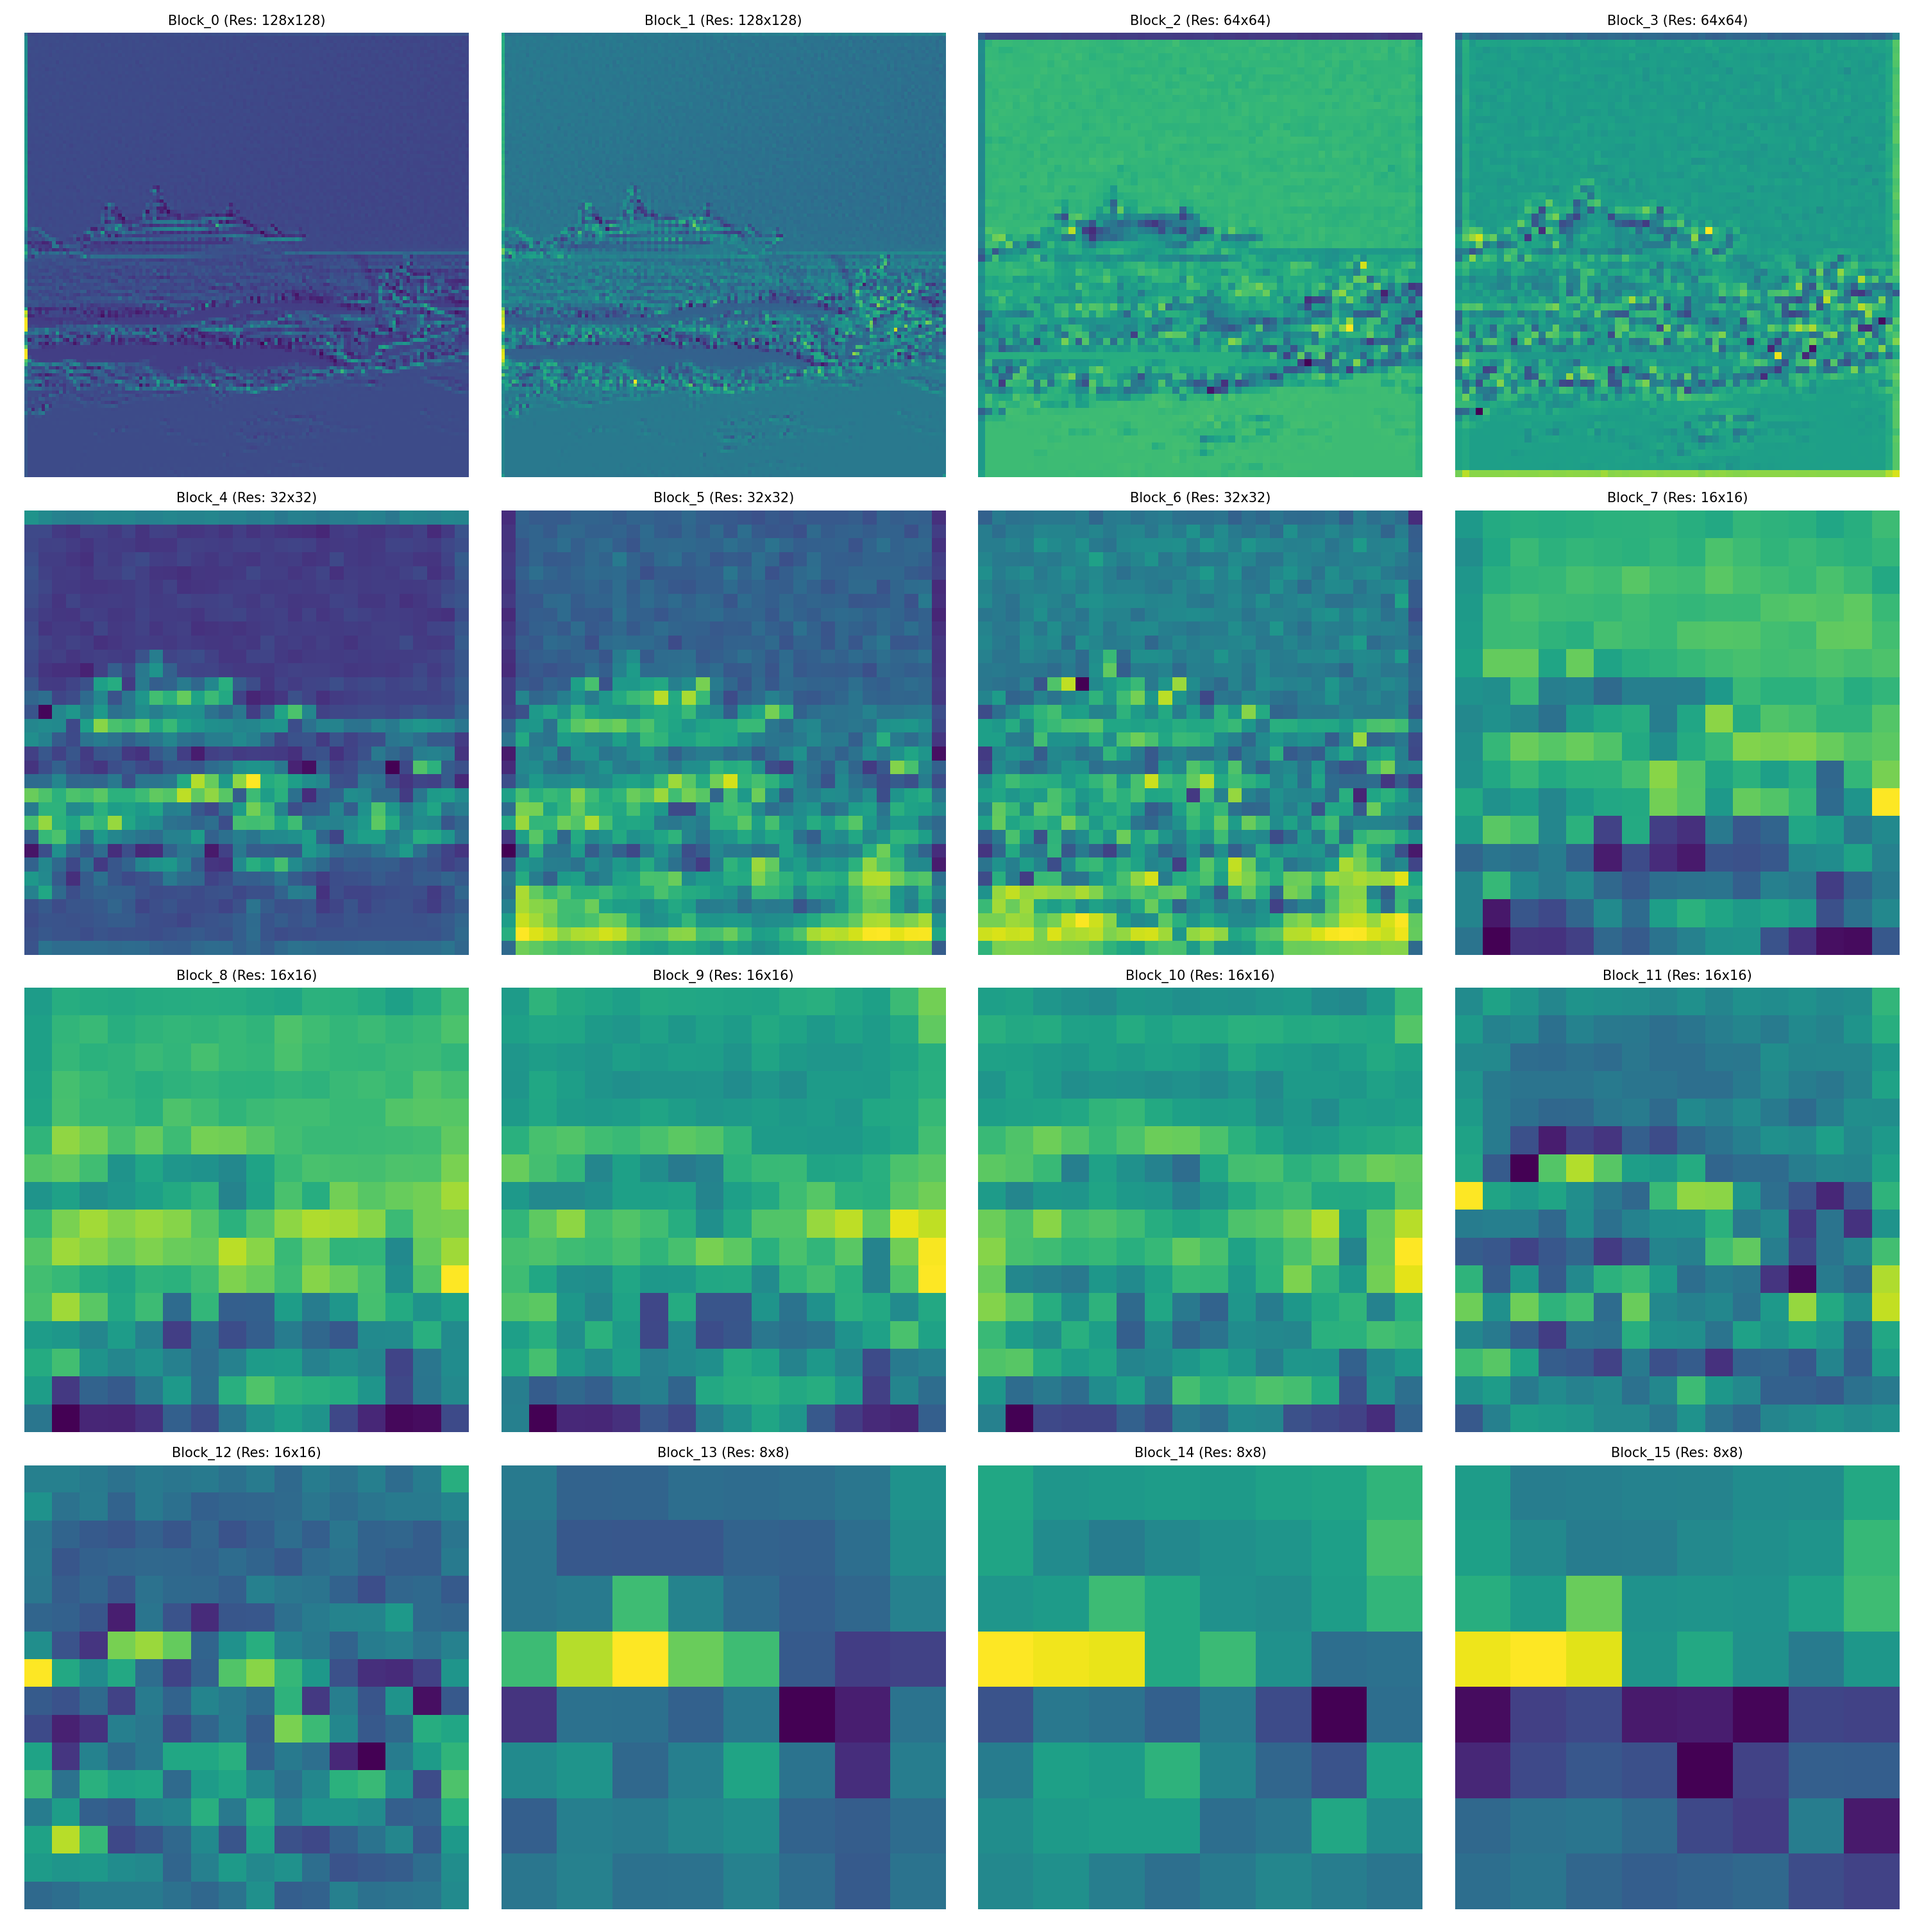
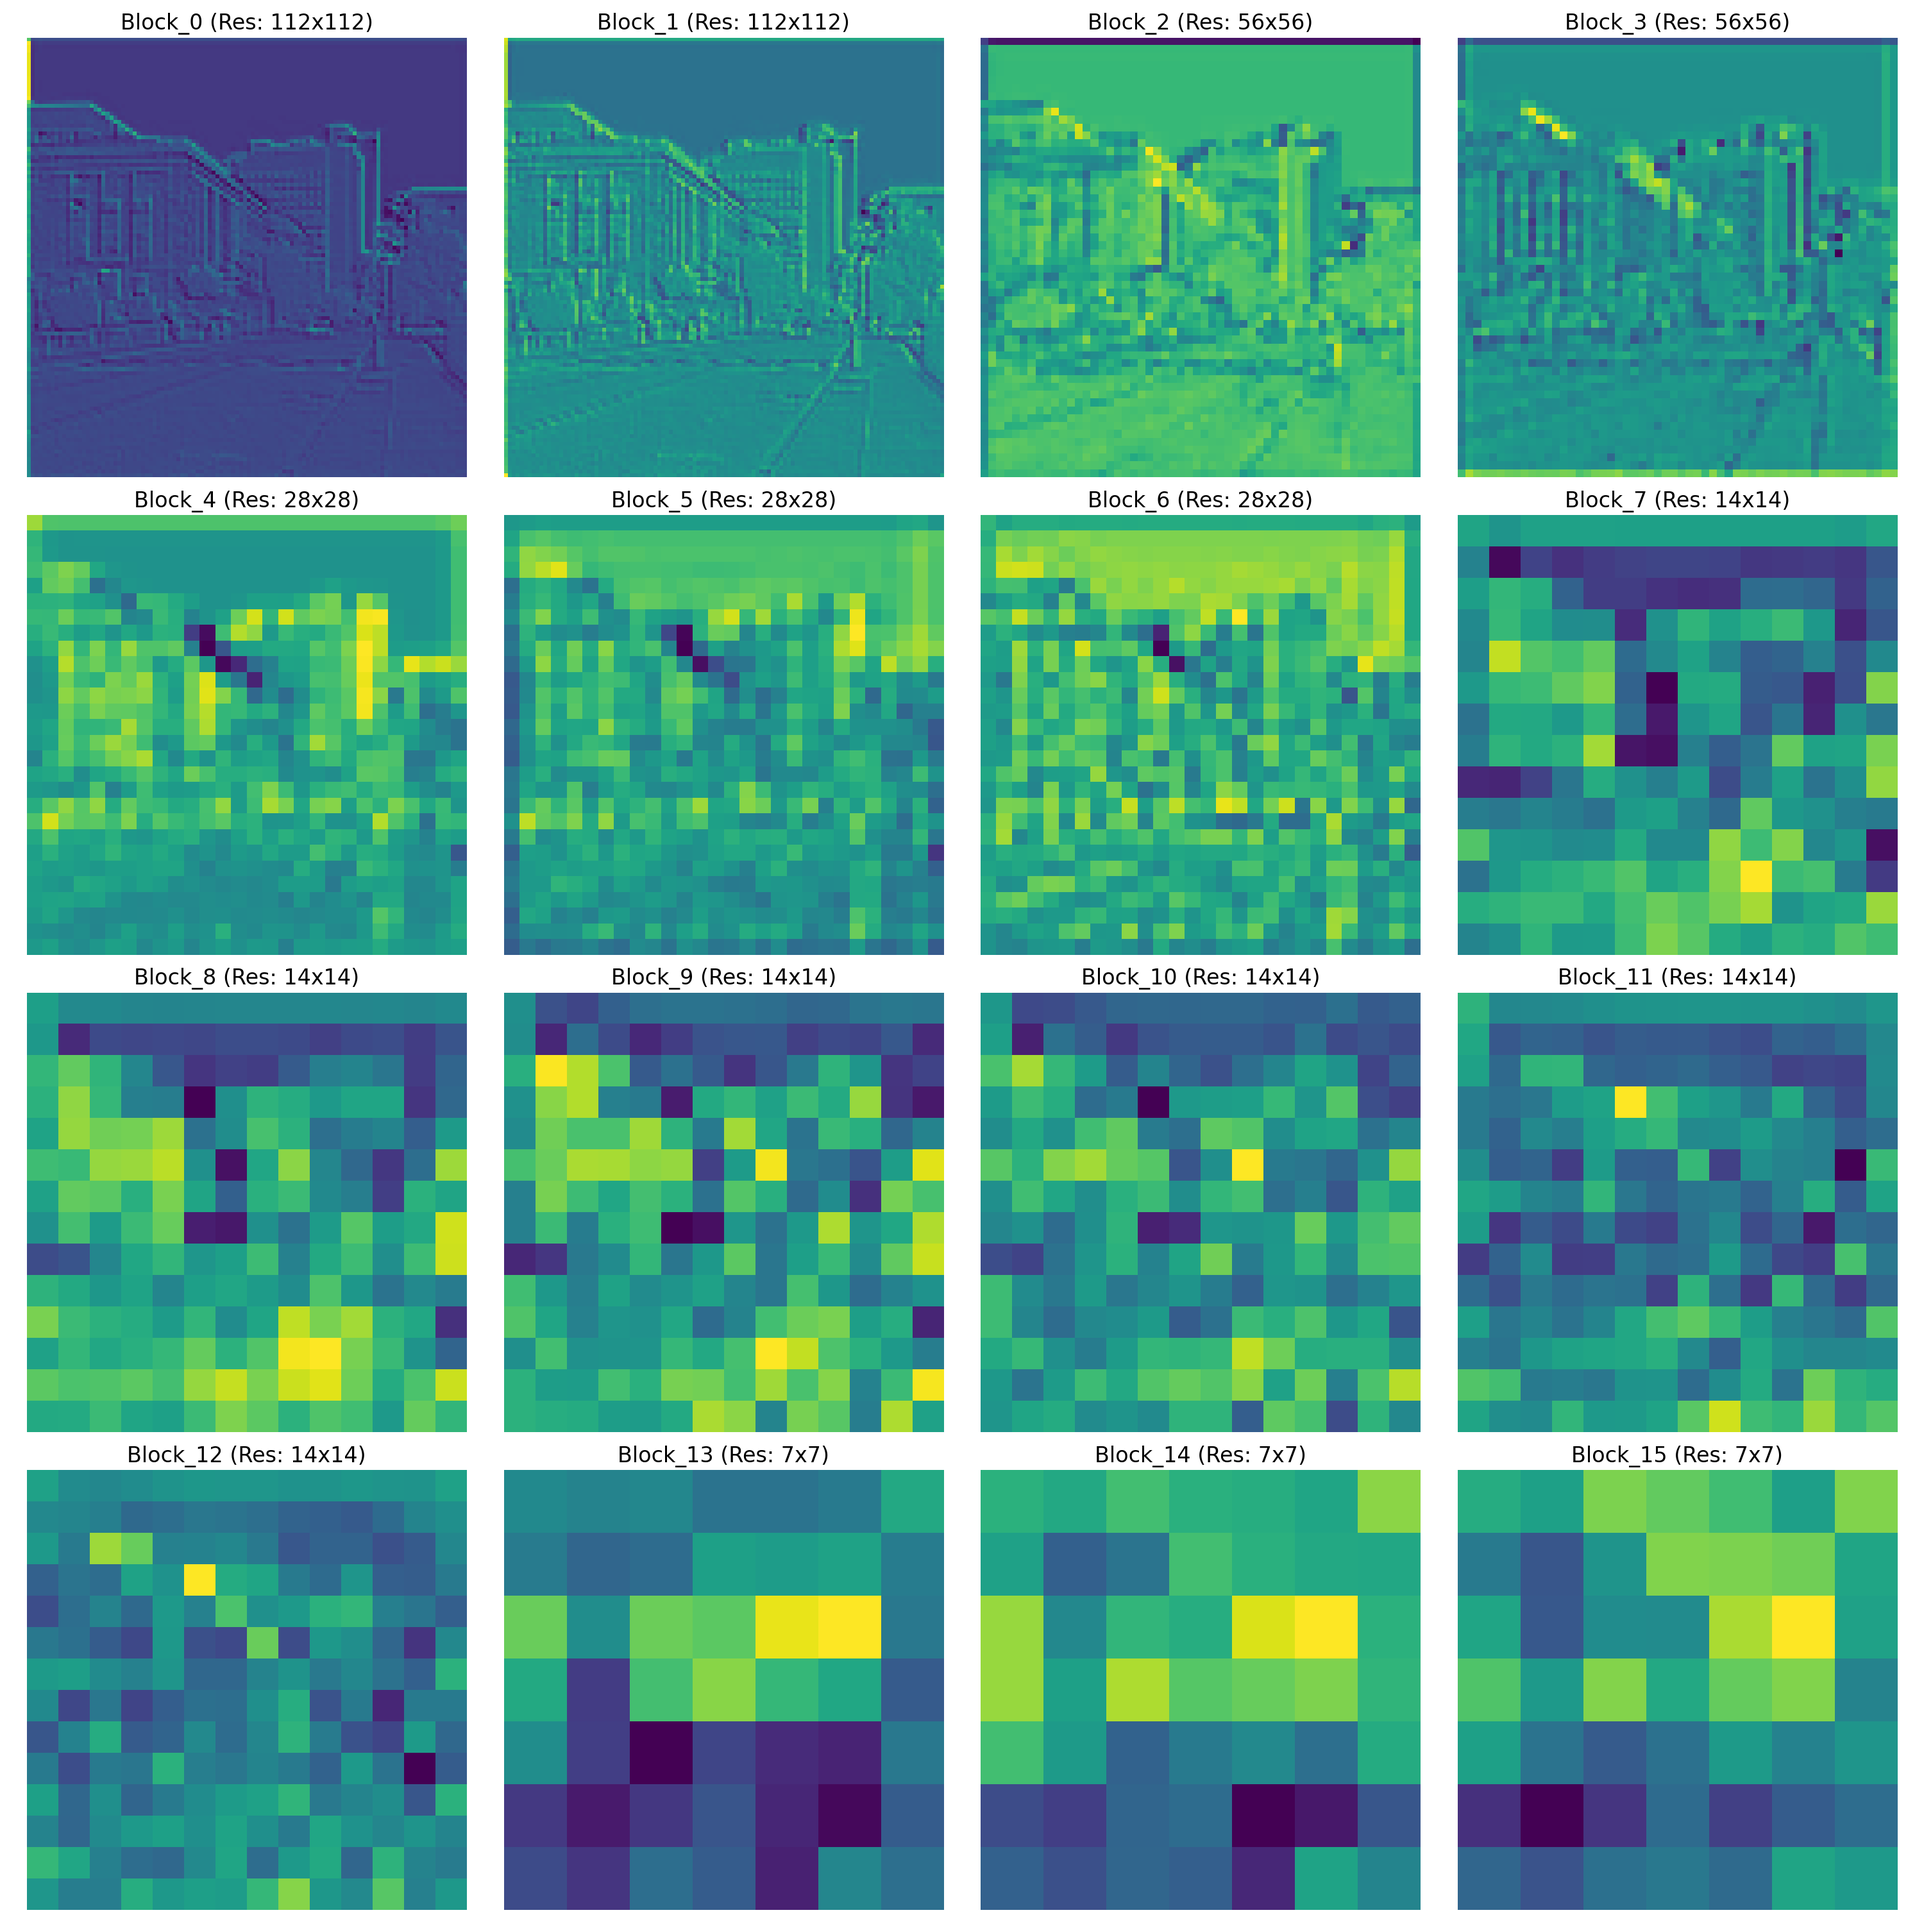
added grad-cam

diff --git a/Week3/search_false_negative.py b/Week3/search_false_negative.py
@@ -1,0 +1,97 @@
+import torch
+import matplotlib as plt
+from PIL import Image
+import os
+import torchvision.transforms.v2  as F
+import numpy as np 
+from pytorch_grad_cam import GradCAM, HiResCAM, ScoreCAM, GradCAMPlusPlus, AblationCAM, XGradCAM, EigenCAM, FullGrad
+from pytorch_grad_cam.utils.model_targets import ClassifierOutputTarget
+from pytorch_grad_cam.utils.image import show_cam_on_image
+
+from models import WraperModel
+
+if __name__ == "__main__":
+    IMG_SIZE=(224, 224)
+    FOLDER_IDX = 1 # UNIQUE PARAMETER TO SET
+    idx_to_label = {0: "Opencountry", 1: "coast", 2: "forest", 3: "highway", 
+                    4: "inside_city", 5: "mountain", 6: "street", 7: "tallbuilding"}
+    device = torch.device("cuda" if torch.cuda.is_available() else "cpu")
+    
+    torch.manual_seed(42)
+
+    model = WraperModel(num_classes=8, feature_extraction=False)
+    model.load_state_dict(torch.load("./saved_models/fold-1_0.001_20.pt"))
+    model.to(device)
+    model.eval()
+
+    transformation = F.Compose([
+        F.ToImage(),
+        F.ToDtype(torch.float32, scale=True),
+        F.Resize(size=IMG_SIZE),
+    ])
+
+    # --- Search for a False Negative in a given folder ---
+    folder_path = os.path.expanduser(f"~/mcv/datasets/C3/2425/MIT_small_train_1/test/{idx_to_label[FOLDER_IDX]}/")
+    found_fn = False
+
+    for filename in os.listdir(folder_path):
+        path = os.path.join(folder_path, filename)
+        dummy_input = Image.open(path).convert('RGB')
+        input_image = transformation(dummy_input).unsqueeze(0).to(device)
+
+        with torch.no_grad():
+            output = model(input_image)
+            _, predicted = output.max(1)
+            pred_idx = predicted.item()
+
+        if pred_idx != FOLDER_IDX:
+            print(f"False Negative found: {filename} predicted as {idx_to_label[pred_idx]}")
+            found_fn = True
+            break # Stop loop and continue with this image
+
+    if not found_fn:
+        print("No False Negatives found in the folder.")
+        exit()
+
+    # --- GradCAM Logic ---
+    target_layers = [model.backbone.features[16]]
+    # Explaining the WRONG prediction found
+    targets = [ClassifierOutputTarget(pred_idx)] 
+    
+    # Required for GradCAM
+    input_image.requires_grad = True
+    
+    img_for_vis = np.array(dummy_input.resize(IMG_SIZE)).astype(np.float32) / 255.0
+
+    grad_cams = model.extract_grad_cam(input_image=input_image, target_layer=target_layers, targets=targets)
+    visualization = show_cam_on_image(img_for_vis, grad_cams, use_rgb=True)
+
+    # Plot the result
+    plt.imshow(visualization)
+    plt.axis("off")
+    plt.title(f"GT: {idx_to_label[FOLDER_IDX]} | Pred: {idx_to_label[pred_idx]}")
+    plt.savefig("./figures/grad_cam.png")
+    plt.close("all")
+
+    # --- Feature Maps Logic ---
+    f_maps, l_names = model.extract_feature_maps_by_block(input_image)
+
+    fig, axes = plt.subplots(4, 4, figsize=(20, 20))
+    axes = axes.flatten()
+
+    for i in range(16):
+        f_map = torch.mean(f_maps[i].squeeze(0), dim=0).detach().cpu()
+        
+        f_min, f_max = f_map.min(), f_map.max()
+        if f_max > f_min:
+            f_map = (f_map - f_min) / (f_max - f_min)
+        else:
+            f_map = torch.zeros_like(f_map)
+        
+        axes[i].imshow(f_map.numpy(), cmap='viridis')
+        axes[i].set_title(f"{l_names[i]} (Res: {f_map.shape[0]}x{f_map.shape[1]})", fontsize=10)
+        axes[i].axis('off')
+
+    plt.tight_layout()
+    plt.savefig("./figures/feature_maps.png", dpi=150)
+    plt.close(fig)

diff --git a/Week3/models.py b/Week3/models.py
@@ -163,12 +163,25 @@ class WraperModel(nn.Module):
 
 # Example of usage
 if __name__ == "__main__":
+    IMG_SIZE=(224, 224)
+    
     torch.manual_seed(42)
 
     # Load a pretrained model and modify it
     model = WraperModel(num_classes=8, feature_extraction=False)
     model.load_state_dict(torch.load("./saved_models/fold-1_0.001_20.pt"))
-    #model = model
+    model.eval()
+    
+    idx_to_label = {
+        0: "Opencountry",
+        1: "coast",
+        2: "forest",
+        3: "highway",
+        4: "inside_city",
+        5: "mountain",
+        6: "street",
+        7: "tallbuilding"
+    }
     
     """print(f"Total capas en features: {len(model.backbone.features)}")
     for i, layer in enumerate(model.backbone.features):
@@ -177,10 +190,10 @@ if __name__ == "__main__":
     transformation  = F.Compose([
                                     F.ToImage(),
                                     F.ToDtype(torch.float32, scale=True),
-                                    F.Resize(size=(224, 224)),
+                                    F.Resize(size=IMG_SIZE),
                                 ])
     # Example GradCAM usage
-    path = os.path.expanduser("~/mcv/datasets/C3/2425/MIT_small_train_1/test/coast/arnat59.jpg")
+    path = os.path.expanduser("~/mcv/datasets/C3/2425/MIT_small_train_1/test/street/bost46.jpg")
     dummy_input = Image.open(path)
     input_image = transformation(dummy_input).unsqueeze(0)
 
@@ -188,15 +201,18 @@ if __name__ == "__main__":
     #target_layers = [model.backbone.features[15].block[-1]]
     targets = [ClassifierOutputTarget(0)] # Number of the class that is being looked
     
-    image = torch.from_numpy(np.array(dummy_input)).cpu().numpy()
-    image = (image - image.min()) / (image.max() - image.min()) ## Image needs to be between 0 and 1 and be a numpy array (Remember that if you have norlized the image you need to denormalize it before applying this (image * std + mean))
-
-    ## VIsualize the activation map from Grad Cam
-    ## To visualize this, it is mandatory to have gradients.
+    with torch.no_grad():
+        output = model(input_image)
+        _, predicted = output.max(1)
+    print(f"Output for input image: {output}")
+    print(f"Prediction for input image: {idx_to_label.get(predicted.item())}")
     
-    grad_cams = model.extract_grad_cam(input_image=input_image, target_layer=target_layers, targets=targets)
+    img_for_vis = np.array(dummy_input.resize(IMG_SIZE)).astype(np.float32) / 255.0
 
-    visualization = show_cam_on_image(image, grad_cams, use_rgb=True)
+    ## Visualize the activation map from Grad Cam
+    ## To visualize this, it is mandatory to have gradients.
+    grad_cams = model.extract_grad_cam(input_image=input_image, target_layer=target_layers, targets=targets)
+    visualization = show_cam_on_image(img_for_vis, grad_cams, use_rgb=True)
 
     # Plot the result
     plt.imshow(visualization)
@@ -224,7 +240,7 @@ if __name__ == "__main__":
             f_map = torch.zeros_like(f_map)
         
         axes[i].imshow(f_map.numpy(), cmap='viridis')
-        axes[i].set_title(f"{l_names[i]} (Res: {f_map.shape[0]}x{f_map.shape[1]})", fontsize=10)
+        axes[i].set_title(f"{l_names[i]} (Res: {f_map.shape[0]}x{f_map.shape[1]})", fontsize=16)
         axes[i].axis('off')
 
     plt.tight_layout()
